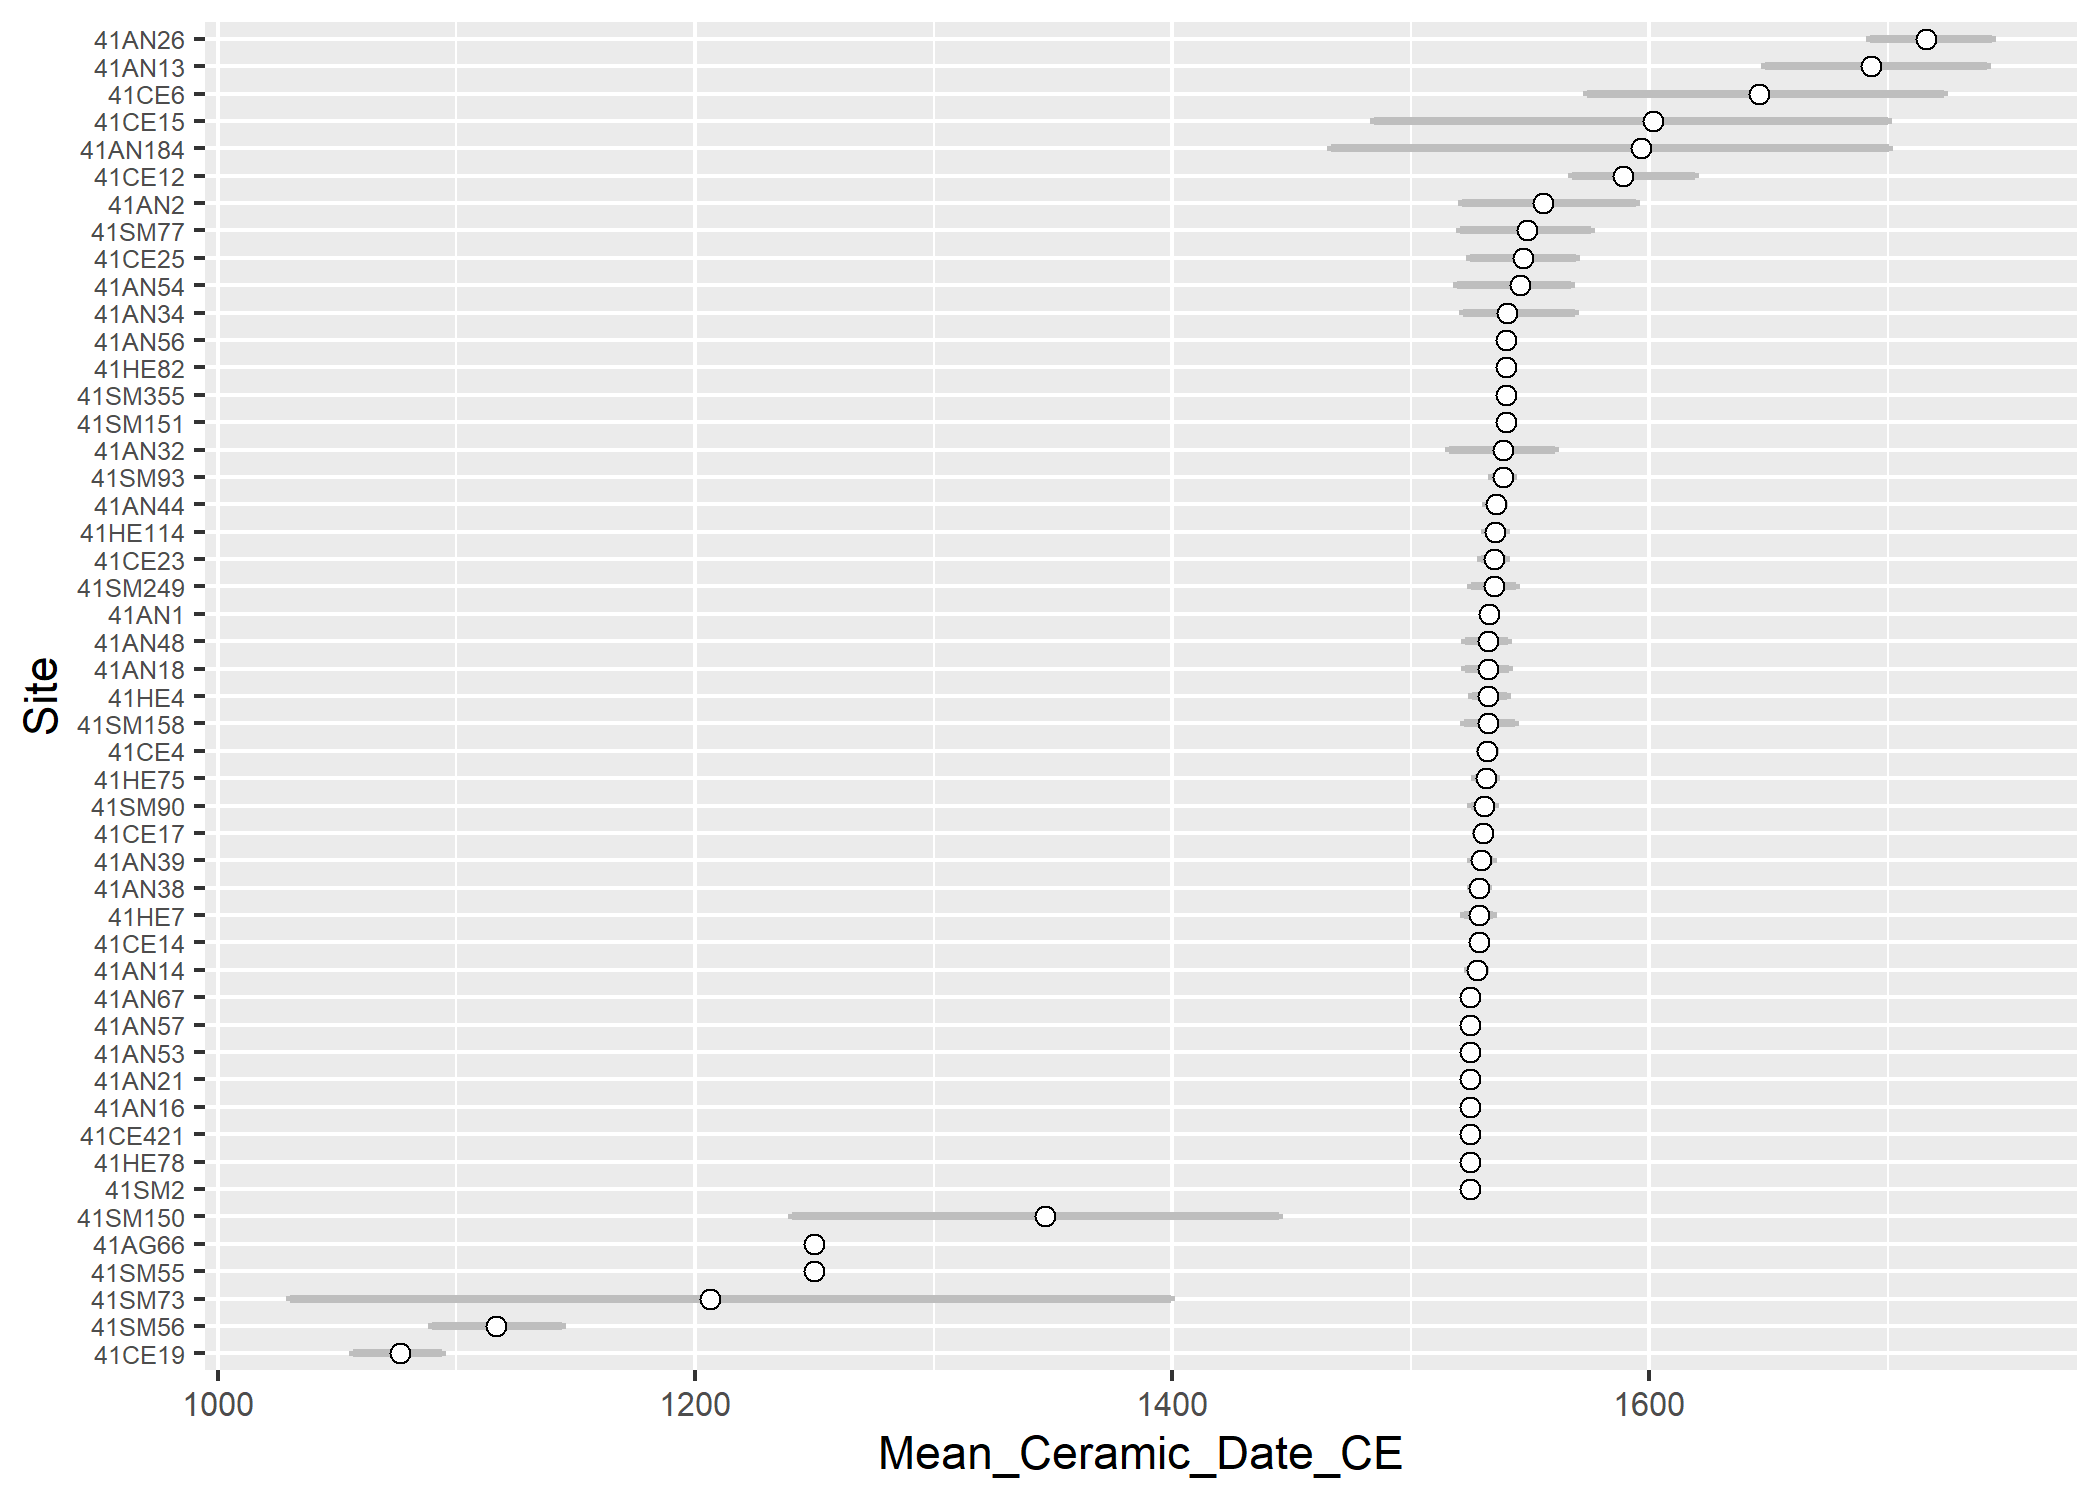
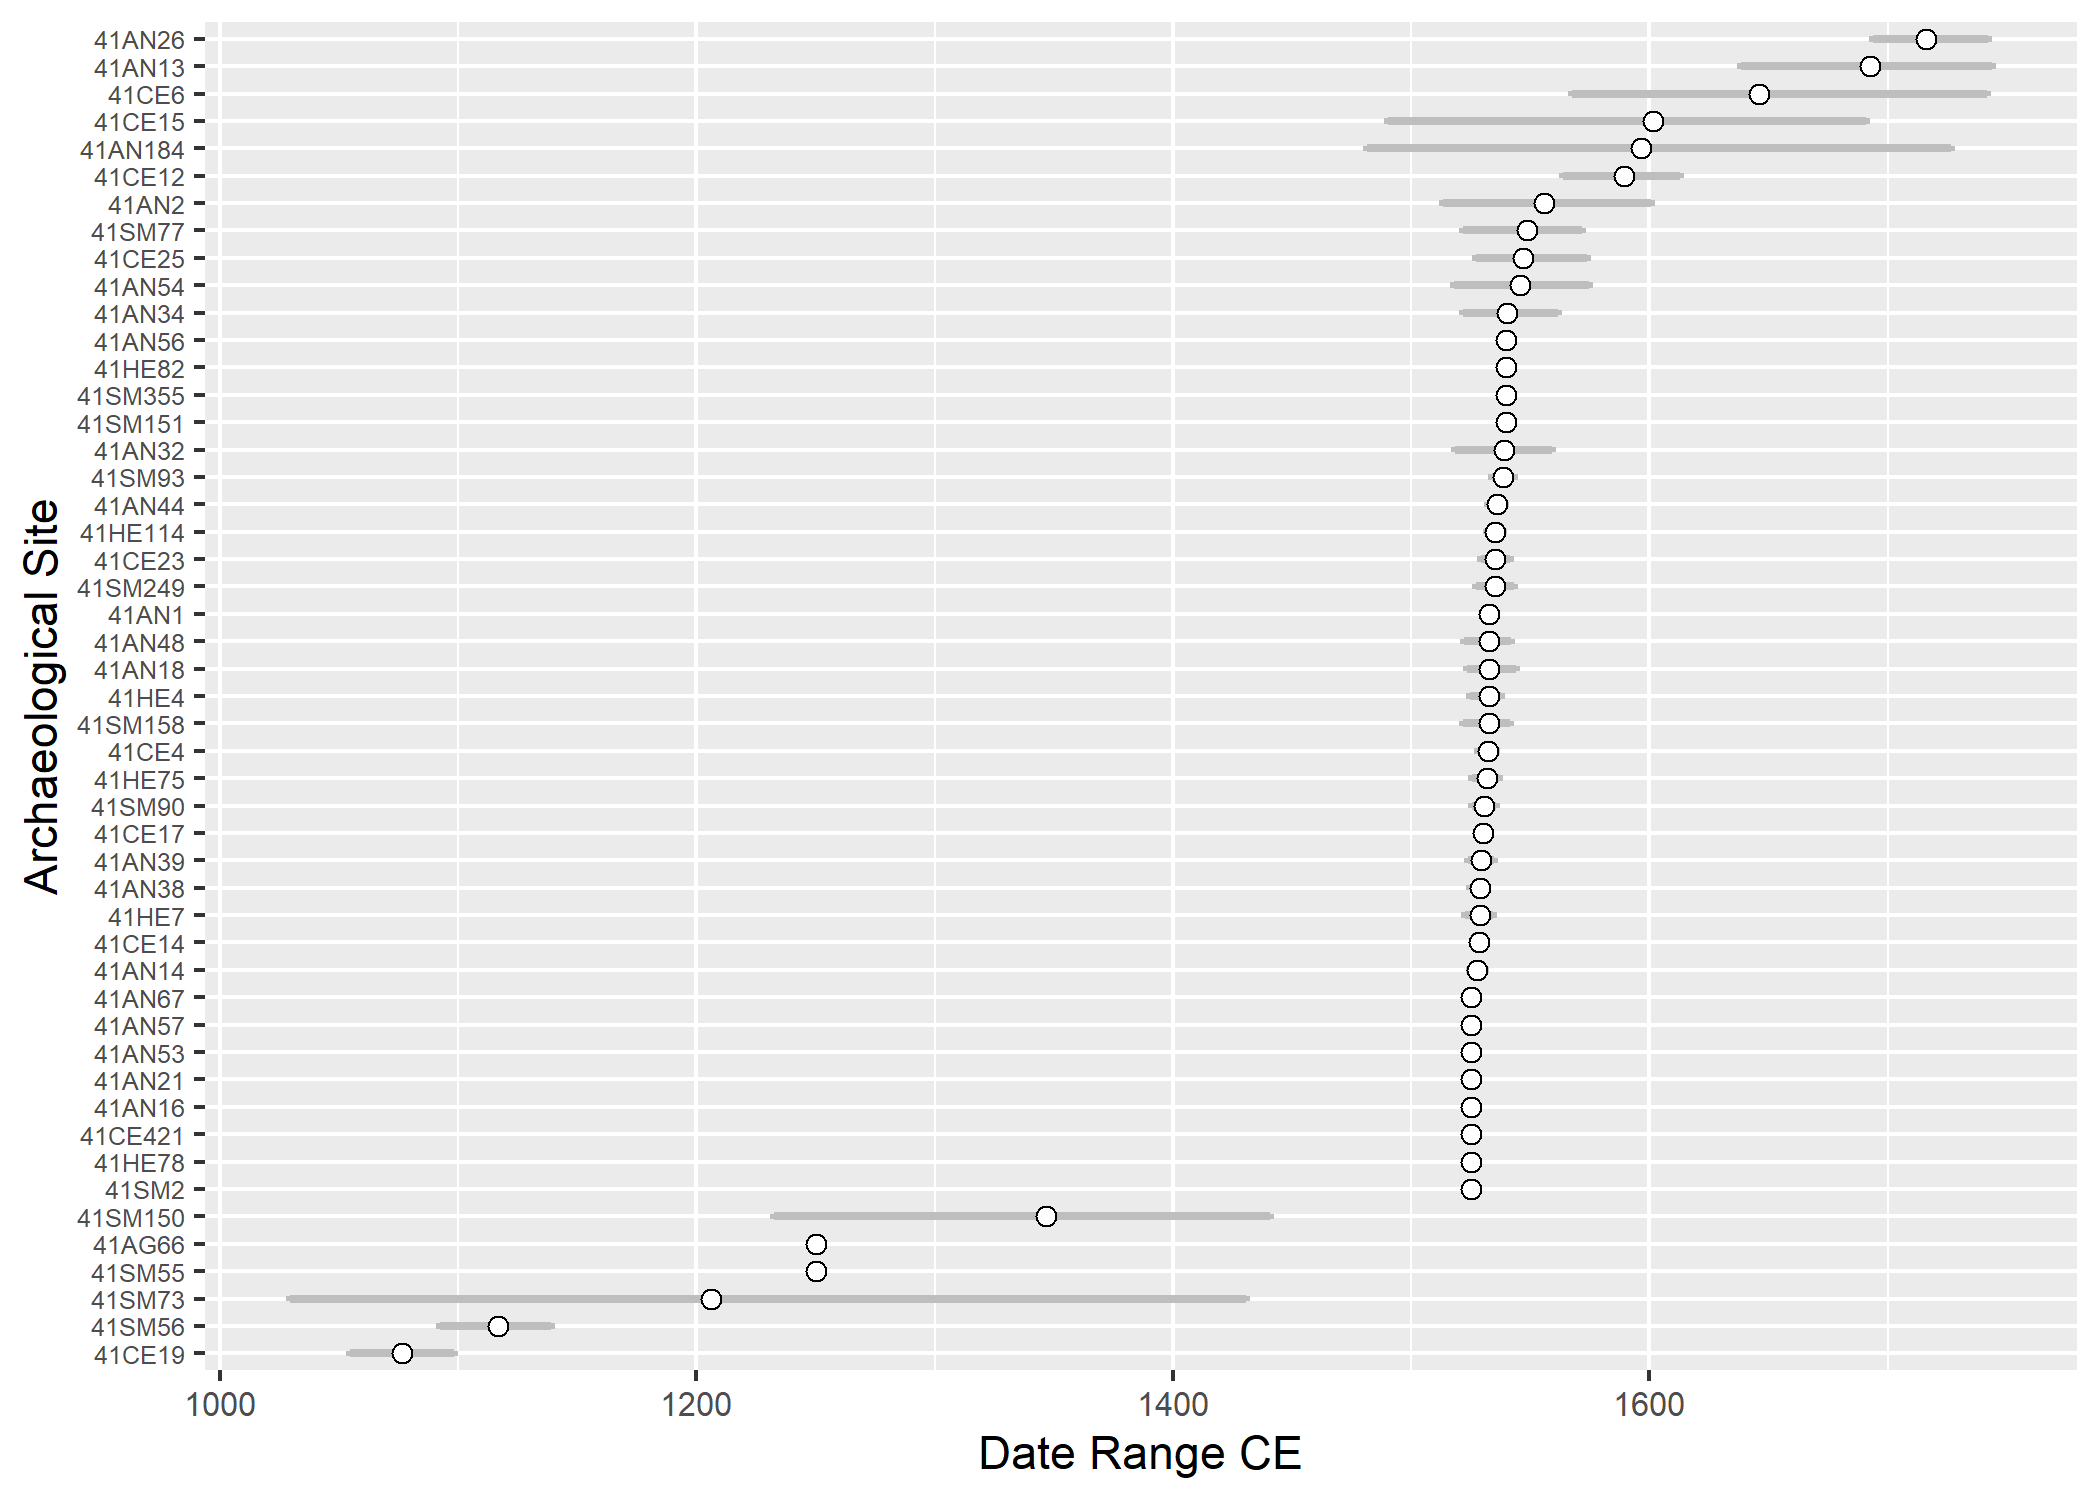
<edit mcd>

diff --git a/mcd.md b/mcd.md
@@ -1,7 +1,7 @@
 Mean ceramic dates for Caddo sites in the Neches River Basin
 ================
 Robert Z. Selden, Jr.
-June 8, 2020
+16 July, 2020
 
 ## MCD for NRB
 
@@ -11,7 +11,8 @@ Texas Historic Sites Atlas, then clipped to the extent of the Neches
 River Basin. Mean ceramic dates were calculated and plotted using
 modified code originally developed by [Peeples
 (2011)](http://www.mattpeeples.net/mcd.html), who was following South
-(1972, 1977).
+(1972, 1977). Dates and probability ranges were then plotted using the
+`ggplot2` package that is included in the `tidyverse`.
 
 ``` r
 # set working directory
@@ -78,14 +79,14 @@ write.table(output, file = 'mcd_out.csv', sep = ',', row.names = F)
 library(tidyverse)
 ```
 
-    ## -- Attaching packages ----------------------------------------- tidyverse 1.3.0 --
+    ## -- Attaching packages -------------------------------------------------------------------------------- tidyverse 1.3.0 --
 
-    ## v ggplot2 3.3.1     v purrr   0.3.4
-    ## v tibble  3.0.1     v dplyr   1.0.0
-    ## v tidyr   1.1.0     v stringr 1.4.0
-    ## v readr   1.3.1     v forcats 0.5.0
+    ## v ggplot2 3.3.2.9000     v purrr   0.3.4     
+    ## v tibble  3.0.2          v dplyr   1.0.0     
+    ## v tidyr   1.1.0          v stringr 1.4.0     
+    ## v readr   1.3.1          v forcats 0.5.0
 
-    ## -- Conflicts -------------------------------------------- tidyverse_conflicts() --
+    ## -- Conflicts ----------------------------------------------------------------------------------- tidyverse_conflicts() --
     ## x dplyr::filter() masks stats::filter()
     ## x dplyr::lag()    masks stats::lag()
 
@@ -96,51 +97,51 @@ caddo
 ```
 
     ##       site      mcd    lower   higher
-    ## 1   41SM56 1116.667 1089.929 1144.084
+    ## 1   41SM56 1116.667 1092.158 1139.135
     ## 2   41SM55 1250.000 1250.000 1250.000
-    ## 3   41SM77 1548.750 1520.574 1575.548
-    ## 4   41SM90 1530.625 1525.270 1535.138
-    ## 5   41SM73 1206.250 1030.429 1399.417
-    ## 6   41SM93 1538.500 1534.205 1542.734
+    ## 3   41SM77 1548.750 1521.756 1571.632
+    ## 4   41SM90 1530.625 1525.706 1535.544
+    ## 5   41SM73 1206.250 1029.519 1430.685
+    ## 6   41SM93 1538.500 1533.902 1543.159
     ## 7  41SM151 1540.000 1540.000 1540.000
-    ## 8  41SM158 1532.500 1522.389 1543.529
-    ## 9  41SM249 1535.000 1525.224 1544.163
-    ## 10 41SM150 1346.667 1240.696 1444.746
+    ## 8  41SM158 1532.500 1521.797 1541.366
+    ## 9  41SM249 1535.000 1527.213 1543.196
+    ## 10 41SM150 1346.667 1232.704 1440.901
     ## 11 41SM355 1540.000 1540.000 1540.000
     ## 12   41SM2 1525.000 1525.000 1525.000
-    ## 13 41HE114 1535.263 1531.236 1539.967
-    ## 14   41HE4 1532.500 1525.863 1540.362
-    ## 15  41HE75 1531.667 1526.907 1535.679
+    ## 13 41HE114 1535.263 1531.949 1538.513
+    ## 14   41HE4 1532.500 1524.669 1537.882
+    ## 15  41HE75 1531.667 1525.591 1537.062
     ## 16  41HE78 1525.000 1525.000 1525.000
     ## 17  41HE82 1540.000 1540.000 1540.000
     ## 18   41HE7 1528.750 1522.473 1534.414
-    ## 19   41CE4 1532.143 1529.095 1535.249
-    ## 20  41CE12 1589.135 1567.567 1619.180
-    ## 21  41CE14 1528.571 1527.355 1529.957
-    ## 22  41CE15 1601.667 1484.473 1699.813
-    ## 23  41CE17 1530.192 1527.423 1532.962
-    ## 24  41CE19 1076.273 1056.572 1094.126
-    ## 25  41CE23 1535.000 1529.614 1539.977
-    ## 26  41CE25 1547.000 1525.004 1569.315
+    ## 19   41CE4 1532.143 1528.195 1535.799
+    ## 20  41CE12 1589.135 1563.523 1612.922
+    ## 21  41CE14 1528.571 1527.217 1529.885
+    ## 22  41CE15 1601.667 1490.196 1690.757
+    ## 23  41CE17 1530.192 1527.504 1533.069
+    ## 24  41CE19 1076.273 1054.446 1098.003
+    ## 25  41CE23 1535.000 1529.440 1541.274
+    ## 26  41CE25 1547.000 1527.200 1573.640
     ## 27 41CE421 1525.000 1525.000 1525.000
-    ## 28   41CE6 1645.833 1573.804 1723.509
-    ## 29   41AN1 1532.759 1530.276 1535.325
-    ## 30  41AN13 1692.692 1648.367 1741.413
-    ## 31  41AN14 1527.727 1524.185 1531.214
+    ## 28   41CE6 1645.833 1567.559 1741.693
+    ## 29   41AN1 1532.759 1530.365 1535.321
+    ## 30  41AN13 1692.692 1638.566 1743.631
+    ## 31  41AN14 1527.727 1524.887 1531.180
     ## 32  41AN16 1525.000 1525.000 1525.000
-    ## 33  41AN18 1532.500 1522.837 1541.245
-    ## 34 41AN184 1596.667 1466.424 1700.583
-    ## 35   41AN2 1555.625 1521.518 1594.196
+    ## 33  41AN18 1532.500 1523.617 1543.832
+    ## 34 41AN184 1596.667 1481.507 1726.452
+    ## 35   41AN2 1555.625 1513.191 1600.495
     ## 36  41AN21 1525.000 1525.000 1525.000
-    ## 37  41AN26 1716.111 1692.359 1743.438
-    ## 38  41AN32 1538.750 1516.067 1560.586
-    ## 39  41AN34 1540.278 1521.801 1569.038
-    ## 40  41AN38 1528.750 1525.392 1532.465
-    ## 41  41AN39 1529.286 1525.231 1534.390
-    ## 42  41AN44 1535.909 1531.340 1539.142
-    ## 43  41AN48 1532.500 1522.611 1540.858
+    ## 37  41AN26 1716.111 1693.790 1742.007
+    ## 38  41AN32 1538.750 1518.227 1559.151
+    ## 39  41AN34 1540.278 1521.793 1561.449
+    ## 40  41AN38 1528.750 1524.820 1532.017
+    ## 41  41AN39 1529.286 1523.796 1534.775
+    ## 42  41AN44 1535.909 1532.227 1539.369
+    ## 43  41AN48 1532.500 1522.010 1541.766
     ## 44  41AN53 1525.000 1525.000 1525.000
-    ## 45  41AN54 1545.714 1519.420 1567.359
+    ## 45  41AN54 1545.714 1517.949 1574.660
     ## 46  41AN56 1540.000 1540.000 1540.000
     ## 47  41AN57 1525.000 1525.000 1525.000
     ## 48  41AN67 1525.000 1525.000 1525.000
@@ -167,6 +168,7 @@ ggplot() +
   geom_errorbar(data = caddo, mapping = aes(x = Site, ymin = lower, ymax = upper), width = 0.2, size = 1, colour = "gray") +
   geom_point(data = caddo, mapping = aes(x = Site, y = Mean_Ceramic_Date_CE), size = 2, shape = 21, fill = "white") +
   coord_flip() + # provides a representation of time similar to what archaeologists are used to seeing
+  labs(y = "Date Range CE", x = "Archaeological Site") +
   cs
 ```
 
